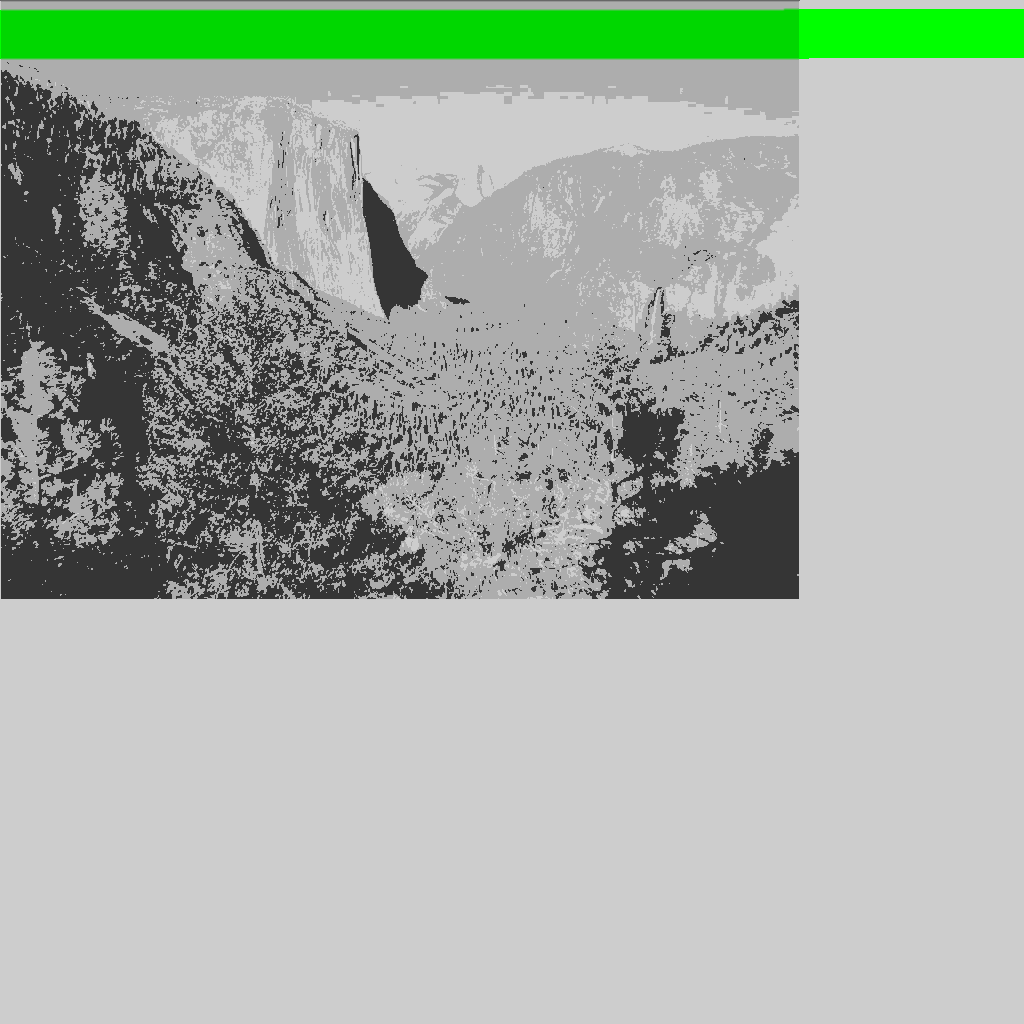
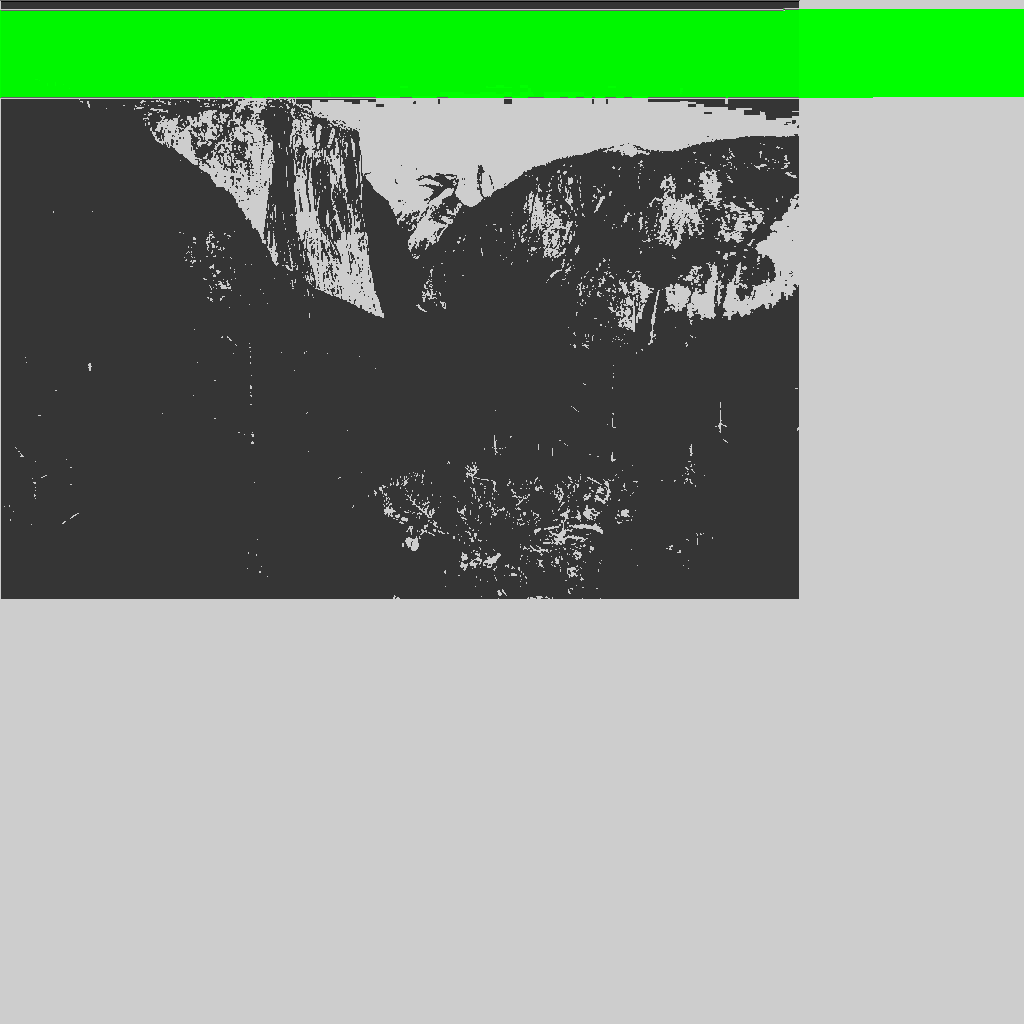
starting to think of tint overlay

Changed region(s): [[0.0, 0.0, 1.0, 0.5938], [0.0, 0.1562, 0.0312, 0.1875]]

diff --git a/src/CatPictureApp.cpp b/src/CatPictureApp.cpp
@@ -40,6 +40,7 @@ class CatPictureApp : public AppBasic {
 	
   private:
 	Surface* mySurface_; //The Surface object whose pixel array we will modify
+	Surface yose_pic;
 	//gl::Texture* myTexture_; //The Texture object that we use to display our Surface in the window
 
 	//integer for random color
@@ -121,6 +122,13 @@ class CatPictureApp : public AppBasic {
 	*/
 	void drawRectangleGradient(uint8_t* pixels, int rect_width, int rec_height, int x_length, int y_height );
 
+	/**
+	*
+	*
+	*
+	*/
+	void tintOverlay (uint8_t* pixels, int rect_width, int rec_height);
+
 }; // end public AppBasic
 
 
@@ -134,28 +142,28 @@ void CatPictureApp::prepareSettings(Settings* settings){
 void CatPictureApp::drawLine(uint8_t* pixels, int rect_width, int rec_height){
 
 	rndColor = Rand::randInt (0,255);
+
 	for ( int i=0; i<=rect_width-1; i++){
-	pixels [3*i]=rndColor;
-	pixels [3*i+1]=rndColor;
-	pixels [3*i+2]=rndColor;
+		pixels [3*i]=rndColor;
+		pixels [3*i+1]=rndColor;
+		pixels [3*i+2]=rndColor;
 	}
 
 }
 
-/// This method  draws a random colored rectangle on the screen
+/// This method  draws a colored rectangle on the screen
 void CatPictureApp::drawRectangle(uint8_t* pixels, int rect_width, int rec_height, int x_length, int y_height ){
+
+	//int offset = 3*(int x + int y*kTextureSize);
 
 	if ( (x_length < rect_width) && (y_height < rec_height) ){
 		
-		//rndColor = Rand::randInt (0,255);
-		for ( int y=50; y <= y_height; y++){
-			for ( int x = 0; x <= x_length; x++) {
+		for ( int y = 50; y <= y_height; y++ ){
+			for ( int x = 0; x <= x_length; x++ ) {
 				pixels [3* (x+y*x_length)]=0;
 				pixels [3* (x+y*x_length)+1]=255;
 				pixels [3* (x+y*x_length)+2]=0;
-				//pixels [3* (x+y)]=0;
-				//pixels [3* (x+y)+1]=255;
-				//pixels [3* (x+y)+2]=0;
+				
 			}
 		}
 	}
@@ -168,14 +176,13 @@ void CatPictureApp::drawRectangleGradient(uint8_t* pixels, int rect_width, int r
 	if ( (x_length < rect_width) && (y_height < rec_height) ){
 		
 		//rndColor = Rand::randInt (0,255);
+		//start y at 200 pixels down the screen
 		for ( int y=200; y <= y_height; y++) {
 			for ( int x = 0; x <= x_length; x++){
-				pixels [3* (x+y*x_length)]=255;
-				pixels [3* (x+y*x_length)+1]=255;
-				pixels [3* (x+y*x_length)+2]=0;
-				//pixels [3* (x+y)]=0;
-				//pixels [3* (x+y)+1]=255;
-				//pixels [3* (x+y)+2]=0;
+				//pixels [3* (x+y*x_length)]=255;
+				//pixels [3* (x+y*x_length)+1]=255;
+				//pixels [3* (x+y*x_length)+2]=0;
+				
 			}
 		}
 	}
@@ -267,13 +274,13 @@ void CatPictureApp::selectiveBlur(uint8_t* image_to_blur, uint8_t* blur_pattern)
 	//These are used in right shifts.
 	//Both of these kernels actually darken as well as blur.
 	uint8_t kernelA[9] = 
-	   {1/9,1/9,1/9,
+	  	{1/9,1/9,1/9,
 		1/9,1/9,1/9,
 		1/9,1/9,1/9};
 	uint8_t kernelB[9] = 
-	   {4,3,4,
-		4,2,4,
-		4,3,4};
+	  	{1/4,1/3,1/4,
+		1/4,1/2,1/4,
+		1/4,1/3,1/4};
 	
 	uint8_t total_red  =0;
 	uint8_t total_green=0;
@@ -341,11 +348,11 @@ void CatPictureApp::setup()
 	//This is the setup that everyone needs to do
 	mySurface_ = new Surface(kTextureSize,kTextureSize,false);
 	//myTexture_ = new gl::Texture(*mySurface_);
-	
+	//	gl::Texture yose_pic = gl::Texture(loadImage( loadResource(RES_YOSE) ));
+
+
 	//Setup for my blur function
 	Surface yose_picture(loadImage( loadResource(RES_YOSE) ));
-	
-	
 	uint8_t* blur_data = yose_picture.getData();	
 	my_blur_pattern_ = new uint8_t[kAppWidth*kAppHeight*3];
 	
@@ -448,13 +455,16 @@ void CatPictureApp::update()
 	Color8u border2 = Color8u(255,255,255);
 
 	//With just this method called, frame rate drops from 54 to 53.5.
-	//tileWithRectangles(dataArray, -(frame_number_%14), -(frame_number_%14), 800, 600, 7, 7, fill1, border1, fill2, border2);
+	//tileWithRectangles(dataArray, -(frame_number_%14), +(frame_number_%14), 800, 600, 7, 7, fill1, border1, fill2, border2);
 	
 	// drawLine method
 	drawLine (dataArray, 800, 600);
 
 	//drawRectangle method
-	drawRectangle (dataArray, 800, 600, 200, 300);
+	drawRectangle (dataArray, 800, 600, 200, 500);
+
+	//tintOverlay method 
+	//tintOverlay (dataArray, 800, 600);
 
 	//With just this method called, frame rate drops from 54 to 11.93
 	selectiveBlur(dataArray, my_blur_pattern_);
@@ -505,6 +515,11 @@ void CatPictureApp::draw()
 {
 	//Draw our texture to the screen, using graphics library
 	gl::draw(*mySurface_);
+
+	////gl::draw(yose_pic, getWindowBounds() );
+
+	
+	
 }
 
 CINDER_APP_BASIC( CatPictureApp , RendererGl )
